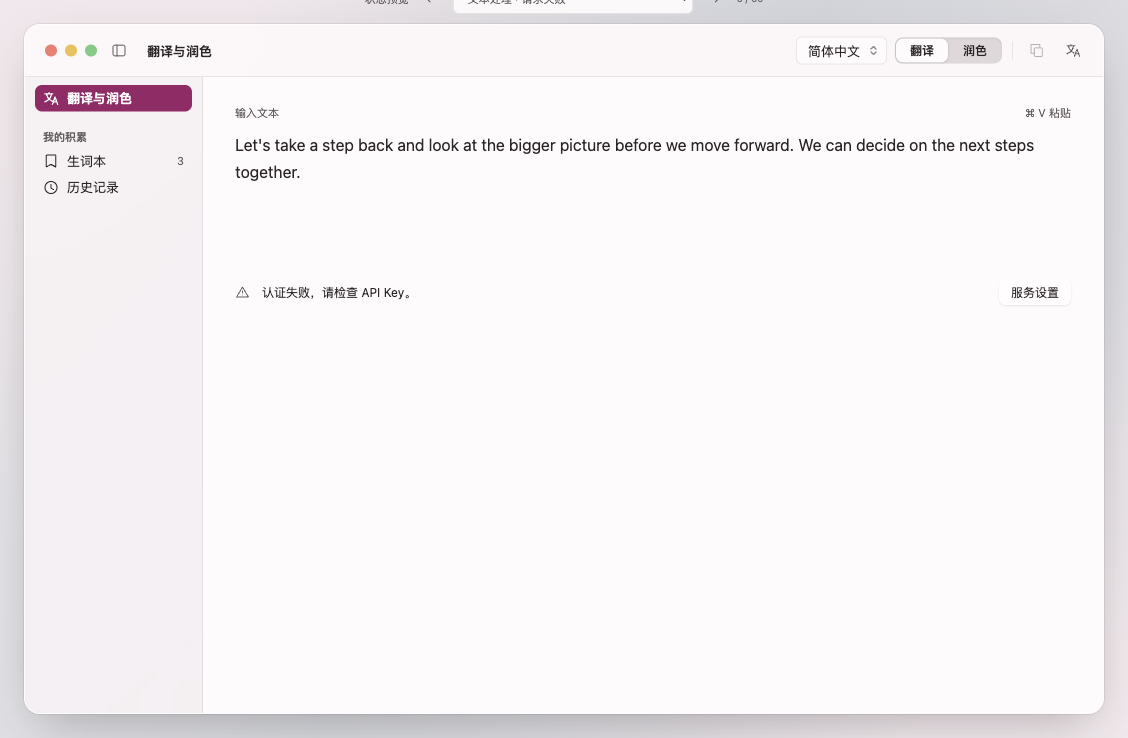
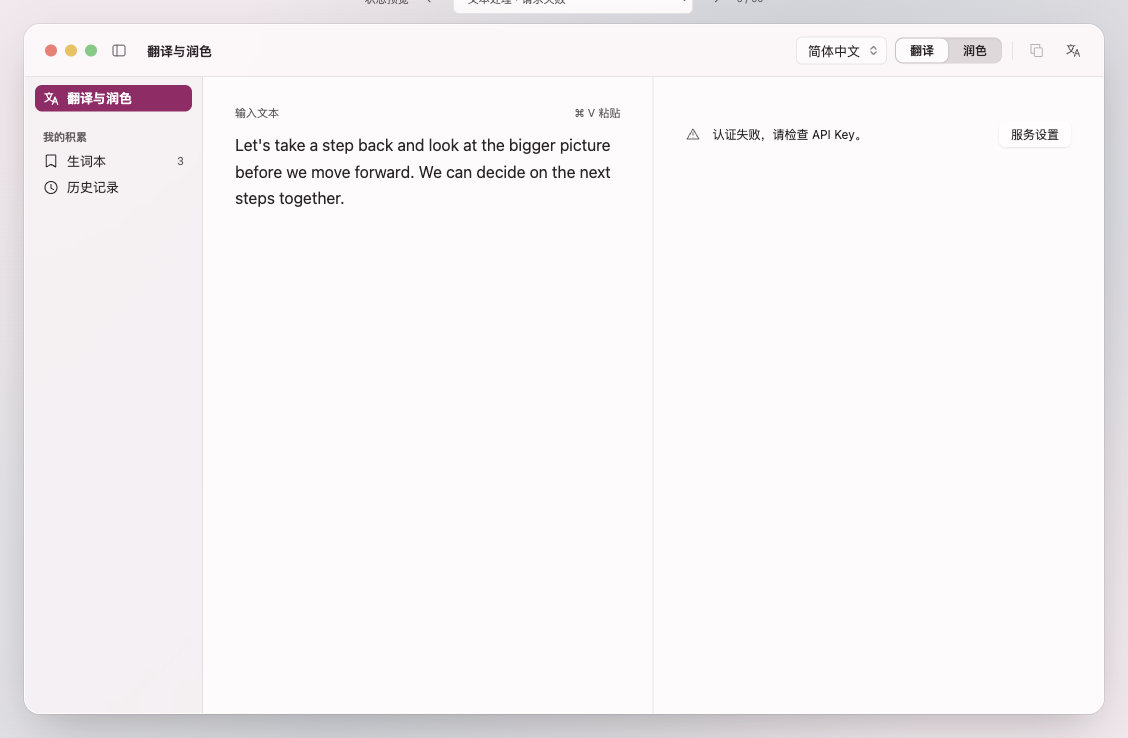
feat(page): keep both sides in view, and move 学习表达 under the result
- 页面不再整体滚动：两侧各自是滚动容器，宽度够时左右平分宽度并撑满高度，窗口窄时上下平分高度。
  这样无论哪种排列，两侧一定同时可见，不会因为一侧变长把另一侧挤出窗口。
- 学习表达从整页底部移到译文／润色这一侧：它解释的是这个结果，不是整页。行内错误提示同理。
- 设计图同步：宽窗口的画面上半部分改成左右并排、撑满高度，窄窗口画面改成上下平分；
  `workspace-narrow` 的描述不再写「提案的另一半」。逐屏组件对照与 feature 补上这两条。

diff --git a/Owlet/Processing/TranslationView.swift b/Owlet/Processing/TranslationView.swift
@@ -155,12 +155,7 @@ struct TranslationView: View {
         TranslationDisplayMode.sectioned
 
     var body: some View {
-        ScrollView {
-            VStack(alignment: .leading, spacing: 0) {
-                content
-                if showsResult, result != nil { learningSection }
-                status
-            }
+        layout
             // Measured before the page padding, so 720pt is the content area, not the whole window.
             .onGeometryChange(for: CGFloat.self) {
                 $0.size.width
@@ -169,64 +164,62 @@ struct TranslationView: View {
             }
             .padding(.horizontal, 32)
             .padding(.vertical, 28)
-        }
-        .scrollBounceBehavior(.basedOnSize)
-        .navigationTitle("翻译与润色")
-        // Switching the operation runs the same text again at once, so the two results can be
-        // compared without pressing the button a second time. Switching back is served from cache.
-        .onChange(of: model.operation) { _, _ in
-            learning.reset()
-            if model.hasBeenSent { model.translate(to: resolvedTarget) }
-        }
-        // Pinning or unpinning a target runs the same text again, served from cache when already
-        // produced for that language.
-        .onChange(of: pinnedTarget) { _, _ in
-            learning.reset()
-            if model.hasBeenSent { model.translate(to: resolvedTarget) }
-        }
-        // The source text changed, so the old result and its learning items no longer apply.
-        .onChange(of: model.input) { _, _ in learning.reset() }
-        // Two groups, controls then actions, as a toolbar is meant to be read: the first decides what
-        // is processed, the second acts on the result. The system spreads the groups apart and moves
-        // what does not fit into its own overflow menu.
-        .toolbar {
-            ToolbarItemGroup(placement: .primaryAction) {
-                if model.operation == .translate {
-                    languagePicker.disabled(isBusy)
-                }
-                Picker("处理方式", selection: $model.operation) {
-                    ForEach(Operation.allCases, id: \.self) { Text($0.title).tag($0) }
-                }
-                .pickerStyle(.segmented)
-                .labelsHidden()
-                .fixedSize()
-                .disabled(isBusy)
+            .navigationTitle("翻译与润色")
+            // Switching the operation runs the same text again at once, so the two results can be
+            // compared without pressing the button a second time. Switching back is served from cache.
+            .onChange(of: model.operation) { _, _ in
+                learning.reset()
+                if model.hasBeenSent { model.translate(to: resolvedTarget) }
             }
-            ToolbarItemGroup(placement: .primaryAction) {
-                if isBusy {
-                    Button(action: model.cancel) {
-                        Label("取消", systemImage: "xmark")
+            // Pinning or unpinning a target runs the same text again, served from cache when already
+            // produced for that language.
+            .onChange(of: pinnedTarget) { _, _ in
+                learning.reset()
+                if model.hasBeenSent { model.translate(to: resolvedTarget) }
+            }
+            // The source text changed, so the old result and its learning items no longer apply.
+            .onChange(of: model.input) { _, _ in learning.reset() }
+            // Two groups, controls then actions, as a toolbar is meant to be read: the first decides what
+            // is processed, the second acts on the result. The system spreads the groups apart and moves
+            // what does not fit into its own overflow menu.
+            .toolbar {
+                ToolbarItemGroup(placement: .primaryAction) {
+                    if model.operation == .translate {
+                        languagePicker.disabled(isBusy)
                     }
-                    .labelStyle(.iconOnly)
-                    .help("取消")
-                } else {
-                    Button(action: copyResult) {
-                        Label("复制结果", systemImage: "doc.on.doc")
+                    Picker("处理方式", selection: $model.operation) {
+                        ForEach(Operation.allCases, id: \.self) { Text($0.title).tag($0) }
                     }
-                    .labelStyle(.iconOnly)
-                    .help("复制结果 ⌘⇧C")
-                    .disabled(result == nil)
-                    Button {
-                        model.translate(to: resolvedTarget)
-                    } label: {
-                        Label(model.operation.title, systemImage: submitSymbol)
+                    .pickerStyle(.segmented)
+                    .labelsHidden()
+                    .fixedSize()
+                    .disabled(isBusy)
+                }
+                ToolbarItemGroup(placement: .primaryAction) {
+                    if isBusy {
+                        Button(action: model.cancel) {
+                            Label("取消", systemImage: "xmark")
+                        }
+                        .labelStyle(.iconOnly)
+                        .help("取消")
+                    } else {
+                        Button(action: copyResult) {
+                            Label("复制结果", systemImage: "doc.on.doc")
+                        }
+                        .labelStyle(.iconOnly)
+                        .help("复制结果 ⌘⇧C")
+                        .disabled(result == nil)
+                        Button {
+                            model.translate(to: resolvedTarget)
+                        } label: {
+                            Label(model.operation.title, systemImage: submitSymbol)
+                        }
+                        .labelStyle(.iconOnly)
+                        .help("\(model.operation.title)文本 ⌘↩")
+                        .disabled(model.input.trimmingCharacters(in: .whitespacesAndNewlines).isEmpty)
                     }
-                    .labelStyle(.iconOnly)
-                    .help("\(model.operation.title)文本 ⌘↩")
-                    .disabled(model.input.trimmingCharacters(in: .whitespacesAndNewlines).isEmpty)
                 }
             }
-        }
     }
 
     private var isBusy: Bool { model.state == .loading }
@@ -253,35 +246,35 @@ struct TranslationView: View {
     private var showsResult: Bool { isBusy || result != nil }
 
     /// Source and result side by side once the content area is wide enough, stacked otherwise.
-    @ViewBuilder private var content: some View {
-        if showsResult {
-            switch ProcessingLayout.choose(width: contentWidth) {
-            case .sideBySide: sideBySide
-            case .stacked: stacked
+    /// The page keeps both sides in view whatever the window is: side by side they share the width,
+    /// stacked they share the height, and either way each side scrolls on its own rather than pushing
+    /// the other out of the window.
+    @ViewBuilder private var layout: some View {
+        if !showsResult {
+            sourceColumn.frame(maxWidth: .infinity, maxHeight: .infinity, alignment: .topLeading)
+        } else if ProcessingLayout.choose(width: contentWidth) == .sideBySide {
+            HStack(alignment: .top, spacing: 0) {
+                column(sourceColumn).padding(.trailing, 28)
+                Divider()
+                column(resultColumn).padding(.leading, 28)
             }
         } else {
-            sourceColumn
+            VStack(spacing: 0) {
+                column(sourceColumn)
+                Divider().padding(.vertical, 13)
+                column(resultColumn)
+            }
         }
     }
 
-    private var sideBySide: some View {
-        HStack(alignment: .top, spacing: 0) {
-            sourceColumn
-                .frame(maxWidth: .infinity, alignment: .topLeading)
-                .padding(.trailing, 28)
-            Divider()
-            resultColumn
-                .frame(maxWidth: .infinity, alignment: .topLeading)
-                .padding(.leading, 28)
+    /// One side: its own scroll view, filling whatever height the arrangement gives it. Both sides are
+    /// built the same way, so a stacked pair comes out an even split.
+    private func column<Content: View>(_ content: Content) -> some View {
+        ScrollView {
+            content.frame(maxWidth: .infinity, alignment: .topLeading)
         }
-    }
-
-    private var stacked: some View {
-        VStack(alignment: .leading, spacing: 0) {
-            sourceColumn.padding(.bottom, 21)
-            Divider().padding(.bottom, 13)
-            resultColumn
-        }
+        .scrollBounceBehavior(.basedOnSize)
+        .frame(maxWidth: .infinity, maxHeight: .infinity, alignment: .topLeading)
     }
 
     private var sourceColumn: some View {
@@ -334,6 +327,10 @@ struct TranslationView: View {
                 }
             }
             resultBody
+            // 学习表达 belongs to the result it explains, so it sits under this side rather than under
+            // the whole page.
+            if result != nil { learningSection }
+            status
         }
     }
 

diff --git a/design/index.html b/design/index.html
@@ -101,6 +101,12 @@ select.popup{appearance:none;-webkit-appearance:none;height:28px;padding:0 26px 
 /* Page */
 .page{display:flex;flex-direction:column;min-height:0;min-width:0;background:oklch(99% .003 350)}
 .body{padding:28px 32px;overflow-y:auto;flex:1;min-height:0}
+/* 翻译与润色页：两侧都可以滚动，同时可见——上下排平分高度，左右排平分宽度。 */
+.body.processing{padding:0;overflow:hidden;display:flex;flex-direction:column}
+.body.processing>.pane{flex:1 1 0;min-height:0;overflow-y:auto;padding:28px 32px}
+.body.processing>.pane+.pane{border-top:1px solid var(--line)}
+.window:not(.window-narrow) .body.processing{flex-direction:row}
+.window:not(.window-narrow) .body.processing>.pane+.pane{border-top:0;border-left:1px solid var(--line)}
 .labelrow{display:flex;align-items:center;justify-content:space-between;gap:10px;font-size:11px;color:var(--muted);margin-bottom:12px}
 .labelrow .label{display:flex;align-items:center;gap:7px}
 .labelrow svg{width:14px;height:14px}
@@ -492,7 +498,7 @@ const states=[
  ['learning-empty','学习 · 无推荐','没有推荐时不强凑数量，保留手动收藏。','learning-empty.png'],
  ['saved','收藏 · 已入库','收藏后就地反馈并保留入口，不跳转打断工作。','saved.png'],
  ['aligned','翻译 · 逐句对照','原文与译文按语义句子配对，换行不改变对应关系。','aligned.png'],
- ['workspace-narrow','文本处理 · 窄窗口','内容区不足 720pt 时原文与译文上下堆叠；提案的另一半是宽窗口并排。','workspace-narrow.png'],
+ ['workspace-narrow','翻译与润色 · 窄窗口','内容区不足 720pt 时原文与译文上下平分高度；宽窗口时左右平分宽度。','workspace-narrow.png'],
  // 提案状态：写回成功确认画面，应用当前在写回成功后直接关闭面板。
  ['success','直接替换 · 完成','写回成功后确认替换并保留译文，按 Esc 或完成返回工作；应用现在写回成功即关闭面板，没有确认屏。','success.png'],
  // 已实现：翻译目标映射（BDR-0003）。
@@ -661,7 +667,8 @@ function processingHTML(){
   const status=notice?`<div class="status" role="alert">${icon('warn')}<span class="msg">${esc(notice.message)}</span><button class="glass-btn" onclick="openSettings('model')">${notice.action}</button></div>`:'';
   // 动作搬到工具栏（HIG Toolbars）：控件一组，动作一组，全部是图标按钮。
   const learning=cfg().learning?learningBlockHTML(cfg().learning):'';
-  return `<div class="body" id="body">${source}${resultSection}${learning}${status}</div>`;
+  // 两侧各自滚动、平分可用高度（左右排时平分宽度），学习表达跟在结果下面。
+  return `<div class="body processing" id="body"><div class="pane">${source}</div><div class="pane">${resultSection}${learning}${status}</div></div>`;
 }
 function bindingOf(key){if(shortcutDraft&&shortcutDraft.key===key)return shortcutDraft.label;return conflict&&key==='translate'?'⌃⌥T':null}
 function shortcutsHTML(){

diff --git a/docs/liquid-glass-components.md b/docs/liquid-glass-components.md
@@ -80,7 +80,7 @@
 
 | 截图 | 已落到设计里的系统组件 |
 | --- | --- |
-| `workspace*.png`（结果、空输入、已输入、处理中、润色结果、请求失败、服务未配置、侧栏收起） | 统一工具栏（跨整窗）· 侧栏切换 · 控件组（弹出式按钮 `简体中文`、分段控件 `翻译｜润色`）· 动作组（图标按钮：`复制结果`、`翻译`／`润色`，处理中换成 `取消`）· `TextEditor` · 结果区 `.redacted` 占位 · 行内 `StatusNote`；这一页没有底部操作栏 |
+| `workspace*.png`（结果、空输入、已输入、处理中、润色结果、请求失败、服务未配置、侧栏收起） | 统一工具栏（跨整窗）· 侧栏切换 · 控件组（弹出式按钮 `简体中文`、分段控件 `翻译｜润色`）· 动作组（图标按钮：`复制结果`、`翻译`／`润色`，处理中换成 `取消`）· `TextEditor` · 结果区 `.redacted` 占位 · 行内 `StatusNote`；两侧同时可见并各自滚动（宽窗口左右平分宽度、窄窗口上下平分高度），学习表达跟在译文／润色下面；这一页没有底部操作栏 |
 | `settings-shortcuts.png` / `settings-shortcuts-recording.png` / `settings-shortcuts-conflict.png` | 设置窗口的快捷键页：`Form` 的两个 `Section`（`全局` 录制器 / `面板内` 固定键）· 录制按钮（例外 2）· `清除` · 每个分组的 footer 承载说明与冲突提示 |
 | `settings-general.png` | 独立设置窗口：`Settings` scene 的标题栏 + `TabView` 标签页切换器（不可自定义、始终可见）· 每页 inset grouped `Form` 的多个 `Section`；通用页含「文本处理」分组（翻译显示方式）；工具栏一页为快捷键页 |
 | `settings-language-empty.png` / `settings-language-rows.png` | 语言页：「语言」分组（已选语言逐行 `LabeledContent` + 删除按钮，`添加语言` 才展示完整系统清单）+「目标语言」分组（兜底目标 `Picker(.menu)`、一行一源语言的映射、`添加映射`） |

diff --git a/tasks/todo.md b/tasks/todo.md
@@ -780,6 +780,8 @@
 - [x] 工具栏分两组：控件组（目标语言、处理方式）与动作组（复制结果、提交；处理中换成取消），动作全部是图标按钮，`Label` + `.help()` 承担提示与无障碍名称。
 - [x] 页面不再有底部操作栏，`PageFooter` 随之删除。
 - [x] 页面改名为「翻译与润色」（侧栏、窗口标题）。
+- [x] 两种排列都同时显示两侧并各自滚动：宽窗口左右平分宽度，窄窗口上下平分高度；页面不再整体滚动把另一侧挤出窗口。
+- [x] 学习表达跟在译文／润色下面（属于结果，跟在整页下面不对）。
 - [x] 侧栏：第一项无分组标题，保留「我的积累」，去掉快捷键项。
 - [x] 快捷键成为设置的第五个标签页（权限、录制、清除、冲突提示照旧）。
 - [x] 工具栏项同时是菜单命令（`复制结果` ⌘⇧C 进「编辑」，`翻译文本`／`润色文本` ⌘↩ 进「文件」），快捷键由菜单项持有。
